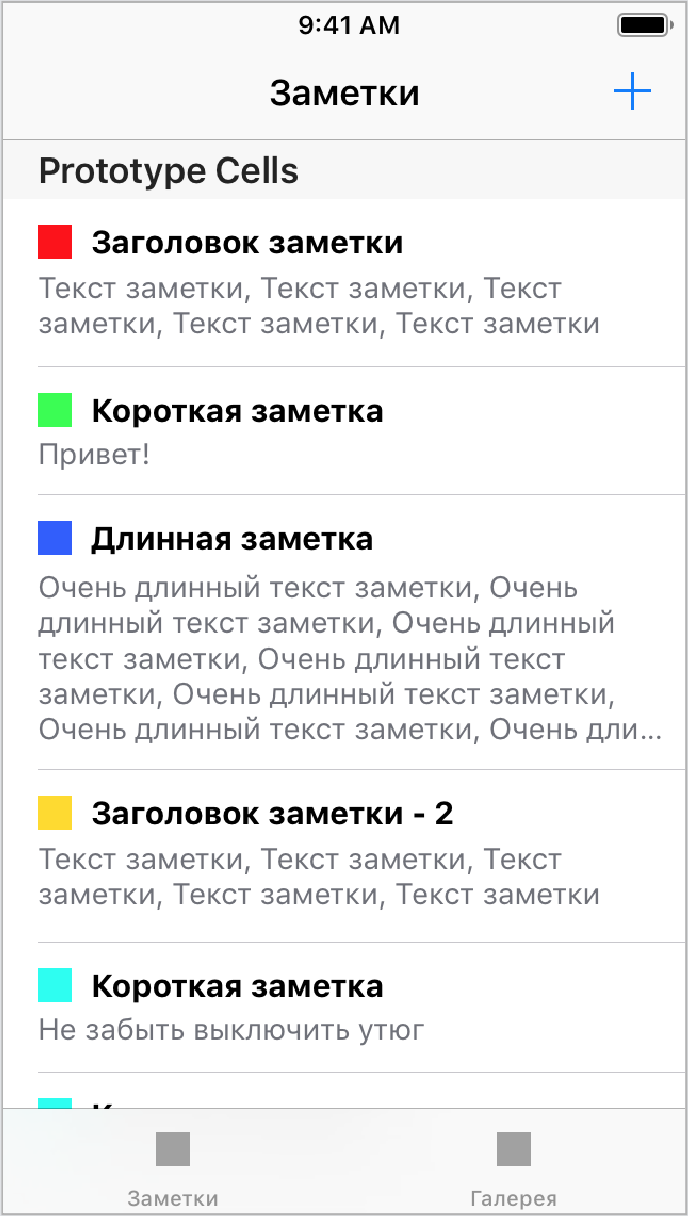
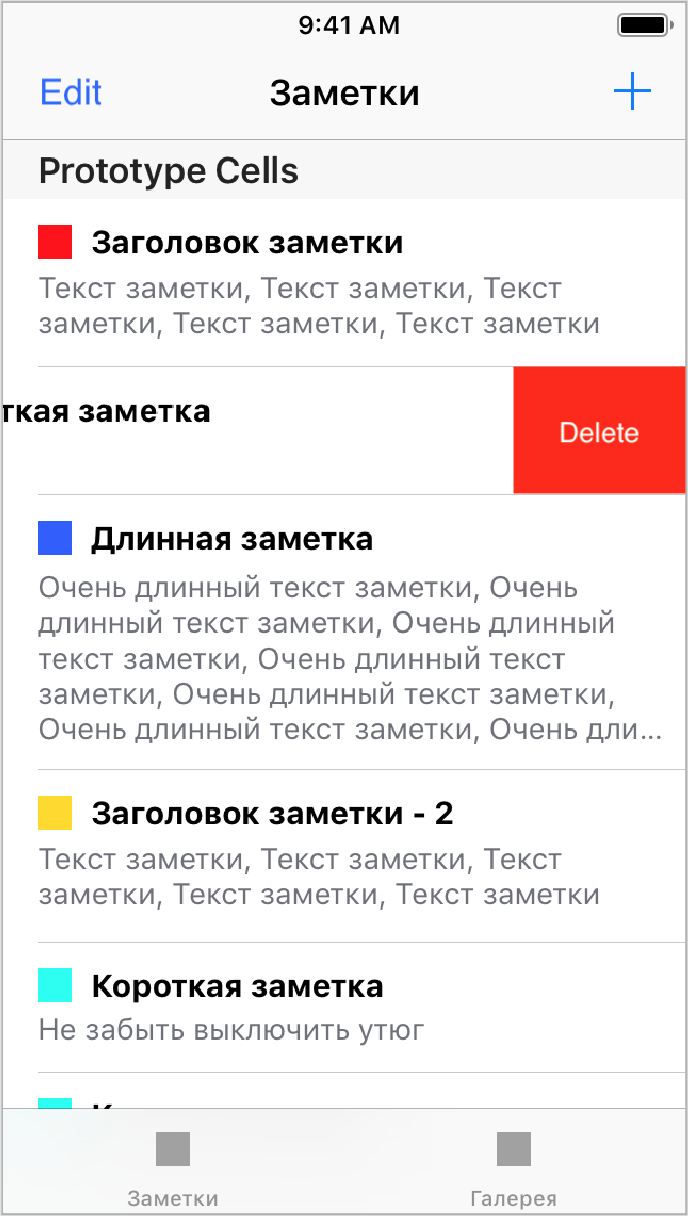
update task#11

Changed region(s): [[0.7326, 0.2812, 1.0, 0.4062], [0.0, 0.3125, 0.5494, 0.4062], [0.061, 0.0625, 0.1526, 0.0938]]

diff --git a/tasks/notes_list.md b/tasks/notes_list.md
@@ -1,17 +1,14 @@
-## Task #10 - Список заметок
+## Task #11 - Список заметок
 
-Вам предстоит создать список заметок. В основе приложения разместите UITabBarController с двумя закладками.
-
-Пример экрана:
-![](images/sample_note_editing_screen.png)
+Вам предстоит создать список заметок. В основе приложения разместите `UITabBarController` с двумя закладками.
 
 **Требования:**
 
 1. На первой закладке разместите `UINavigationController`. Первый экран в нём должен содержать таблицу (`UITableView`) со списком заметок. По нажатию на ячейку таблицы нужно переходить (Push) на экран редактирования заметки из [предыдущего задания](tasks/edit_screen.md).
 2. На первой закладке разместите кнопку «+» в navigation bar. Если нажать на кнопку, будет создана новая заметка и пользователь сразу попадает на экран её редактирования.
 3. После завершения редактирования пользователь закрывает экран и возвращается на список заметок. Созданная заметка должна добавиться на экран.
-4. Удаление заметки из списка осуществляется в режиме редактирования по нажатию соответствующей кнопки «Редактировать» и свайпом влево и нажатием на «Delete».
-5. На второй закладке разместите галерею фото на `ScrollView`, созданную в предыдущей задаче. В галерее разместите минимум 5 фотографий.
+4. Для удаления заметки добавьте кнопку «Редактировать» или «Edit» слева от названия. Она должно переключать режим редактирования таблицы (`tableView.isEditing = true/false`). Удаление заметки из списка осуществляется свайпом влево или нажатием на «Delete» на нужной ячейке.
+5. На второй закладке разместите галерею фото на `ScrollView`, созданную в [предыдущей задаче](hello-6.md). В галерее разместите минимум 5 фотографий.
 
 ![](images/111.png)
 
